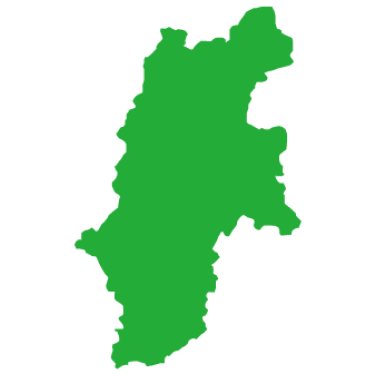
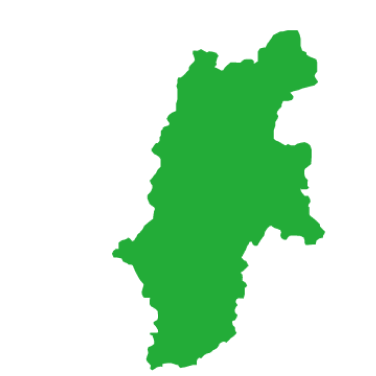
Add files via upload

Changed region(s): [[0.1755, 0.0, 0.8777, 0.9947]]

diff --git a/data_manzai.js b/data_manzai.js
@@ -269,6 +269,84 @@ const manzaiData = {
 
     },
 
+    // -------- 長野 --------------------------------------------------------------------------------------------------------
+    'nagano': {
+        scenario: [
+            { type: 'dialogue', speaker: '長野', text: 'こんにちは<br>長野県です' },
+            { type: 'dialogue', speaker: '山形', text: '山形県で〜す' },
+            { type: 'dialogue', speaker: '山形', text: '今日は県の形だけでも<br>覚えて帰ってくださ〜い' },
+            { type: 'dialogue', speaker: '長野', text: '長野といえば、やっぱり「山」だね<br>日本アルプスの雄大な自然が自慢だよ' },
+            { type: 'dialogue', speaker: '長野', text: '空気が美味しくて<br>深呼吸すると気持ちいいんだ' },
+            { type: 'dialogue', speaker: '山形', text: '空気なら山形も負けてないよ' },
+            { type: 'dialogue', speaker: '山形', text: 'あまりに空気が綺麗だから<br>「空気神社」を作って祀ってるんだ' },
+            { type: 'dialogue', speaker: '長野', text: 'えっ？ 空気神社？<br>学問の神様とかじゃなくて？' },
+            { type: 'dialogue', speaker: '山形', text: 'ううん、空気そのものが御神体だよ' },
+            {
+                type: 'prompt', speaker: '山形', text: '本殿もなくて、<br>鏡に映る空気を拝むんだ',
+                tsukkomi: [
+                    { text: "哲学的すぎるよ！", 
+                        point: 3, type: ['t', 'p', 'v'], 
+                        reaction: '長野「教育県でも<br>理解が追いつかないよ！」' },
+                    { text: "賽銭は<br>どうするの？", 
+                        point: 1, type: ['v'], 
+                        reaction: '山形「普通の賽銭箱があるよ<br>そこは現金だよ」' },
+                    { text: "長野にも<br>作ろうかな", 
+                        point: 0, type: ['p'], 
+                        reaction: '長野「いや、真面目な県民が<br>混乱しちゃうよ」' }
+                ]
+            },
+            { type: 'dialogue', speaker: '長野', text: '空気を祀るなんて、独創的だなぁ...' },
+            { type: 'dialogue', speaker: '長野', text: 'あと長野は海がないけど、<br>そのぶん川の水が綺麗なんだ' },
+            { type: 'dialogue', speaker: '長野', text: 'イワナとかヤマメとか<br>川魚が美味しいよ' },
+            { type: 'dialogue', speaker: '山形', text: 'お魚かぁ<br>山形は海があるから、海の生き物が豊富だよ' },
+            { type: 'dialogue', speaker: '山形', text: '加茂水族館には<br>世界一の種類の「クラゲ」がいるし' },
+            { type: 'dialogue', speaker: '長野', text: 'へぇ、世界一の展示数なんだ<br>見るだけで癒やされそうだね' },
+            { type: 'dialogue', speaker: '山形', text: 'うん、見て癒やされた後は<br>美味しくいただくんだ' },
+            {
+                type: 'prompt', speaker: '山形', text: 'クラゲラーメンとか<br>クラゲアイスにしてね',
+                tsukkomi: [
+                    { text: "なんで<br>食べちゃうの！", 
+                        point: 3, type: ['t', 'p', 'v'], 
+                        reaction: '長野「展示を見た直後に！？<br>情緒がないよ！」' },
+                    { text: "普通の魚<br>食べさせてよ！", 
+                        point: 1, type: ['v', 'p'], 
+                        reaction: '山形「コリコリして<br>ナタデココみたいで最高だよ？」' },
+                    { text: "アイスに<br>入ってるの！？", 
+                        point: 0, type: ['v'], 
+                        reaction: '長野「食感の主張が<br>激しすぎるよ...」' }
+                ]
+            },
+            { type: 'dialogue', speaker: '長野', text: 'はぁ...<br>山形の食文化は刺激的だね' },
+            { type: 'dialogue', speaker: '長野', text: '長野県民は真面目だから<br>もっとこう、質素で団結力があるのが好きかな' },
+            { type: 'dialogue', speaker: '長野', text: '県歌の「信濃の国」を<br>みんなで合唱したりね' },
+            { type: 'dialogue', speaker: '山形', text: '団結力なら、山形の「芋煮会」もすごいよ' },
+            { type: 'dialogue', speaker: '山形', text: '河原に集まって、みんなで鍋を囲むんだ' },
+            { type: 'dialogue', speaker: '長野', text: 'ああ、芋煮！<br>それなら平和でいいね' },
+            { type: 'dialogue', speaker: '山形', text: 'うん。ただ、日本一の芋煮会だと<br>3万食を作るからお玉じゃ無理なんだ' },
+            {
+                type: 'prompt', speaker: '山形', text: 'だから工事現場のショベルカーで<br>具材をかき混ぜるんだ',
+                tsukkomi: [
+                    { text: "衛生管理<br>どうなってるの！", 
+                        point: 3, type: ['t', 'p', 'v'], 
+                        reaction: '長野「工事現場じゃないか！<br>保健所は許可したの！？」' },
+                    { text: "調理器具<br>じゃないよ！", 
+                        point: 1, type: ['v', 'p'], 
+                        reaction: '山形「ちゃんと新車を買って<br>バターを塗ってるから衛生的だよ」' },
+                    { text: "真面目に<br>料理して！", 
+                        point: 0, type: ['v'], 
+                        reaction: '長野「給食のおばちゃんが<br>腰抜かすよ！」' }
+                ]
+            },
+            { type: 'dialogue', speaker: '山形', text: 'どう？<br>山形のこと、だいたいわかった？' },
+            { type: 'dialogue', speaker: '長野', text: 'う〜ん<br>とりあえず・・・' },
+            { type: 'dialogue', speaker: '長野', text: 'ツッコミどころが多いってことは<br>学習できたよ' },
+            { type: 'dialogue', speaker: '山形', text: '山形の魅力が伝わって嬉しいよ！' },
+            { type: 'dialogue', speaker: '長野', text: '・・・・・・' },
+            { type: 'dialogue', speaker: '長野', text: 'ポジティブすぎるよ！' },
+            { type: 'ending', speaker: 'both', text: 'どうも<br>ありがとうございました〜！' },
+        ]
+    },
+
     // -------- 大阪 -----------------------------------------------------------------------------------------------------
     'osaka': {
         scenario: [
@@ -456,7 +534,7 @@ const manzaiData = {
     },
     
     // -------- 沖縄 -----------------------------------------------------------------------------------------------------
-'okinawa': {
+    'okinawa': {
     scenario: [
         { type: 'dialogue', speaker: '沖縄', text: 'ハイサイ！<br>沖縄県さ〜' },
         { type: 'dialogue', speaker: '山形', text: '山形県で〜す' },
@@ -538,7 +616,7 @@ const manzaiData = {
         { type: 'dialogue', speaker: '沖縄', text: 'それでいいわけ！？' },
         { type: 'ending', speaker: 'both', text: 'どうも<br>ありがとうございました〜！' },
     ]
-},
+    },
 
 };
 

diff --git a/style.css b/style.css
@@ -649,11 +649,108 @@ background-color: #000;
 scroll-behavior: smooth;
 }
 
+/* ======== スクロールガイド（デザイン版） ======== */
+/* 矢印の下に配置するぼんやりした光 */
+.scroll-glow {
+    position: absolute;
+    top: 70px; /* 矢印より少し下に配置（位置は微調整してください） */
+    width: 150px;
+    height: 50px;
+    background: radial-gradient(ellipse at center, rgba(4, 255, 0, 0.4) 0%, transparent 70%);
+    filter: blur(10px);
+    border-radius: 50%;
+    z-index: -1; /* 文字や矢印の背面に配置 */
+    /* 矢印の鼓動に合わせて光を明滅させる */
+    animation: glow-pulse 2s infinite;
+}
+
+@keyframes glow-pulse {
+    0%, 100% {
+        transform: scale(1);
+        opacity: 0.3;
+    }
+    50% {
+        transform: scale(1.5); /* 矢印が下にくる時に光を広げる */
+        opacity: 0.7;
+    }
+}
+
+.scroll-guide {
+    position: fixed;
+    bottom: 35px;
+    left: 50%;
+    transform: translateX(-50%);
+    z-index: 1000;
+    display: flex;
+    flex-direction: column;
+    align-items: center;
+    pointer-events: none;
+    overflow: visible;
+    transition: opacity 0.5s ease-out;
+}
+
+/* 文字部分 */
+.scroll-text {
+    color: #04FF00;
+    font-family: "Zen Maru Gothic", sans-serif;
+    font-size: 12px;
+    font-weight: 900;
+    letter-spacing: 0.3em;
+    text-shadow: 0 0 10px rgba(4, 255, 0, 0.8);
+    margin-bottom: 8px;
+}
+
+/* 矢印の入れ物 */
+.arrow-wrap {
+    display: flex;
+    flex-direction: column;
+    align-items: center;
+    gap: 4px; /* 矢印と矢印の間隔 */
+}
+
+/* V字のライン */
+.arrow-v {
+    width: 15px;
+    height: 15px;
+    border-right: 3px solid #04FF00;
+    border-bottom: 3px solid #04FF00;
+    transform: rotate(45deg); /* 傾けてV字にする */
+    box-shadow: 2px 2px 10px rgba(4, 255, 0, 0.5);
+    
+    /* 下に流れるようなアニメーション */
+    animation: scroll-arrow-move 2s infinite;
+    opacity: 0;
+}
+
+/* 2つ目の矢印を少し遅らせる */
+.arrow-v:nth-child(2) {
+    animation-delay: 0.3s;
+}
+
+@keyframes scroll-arrow-move {
+    0% {
+        transform: rotate(45deg) translate(-5px, -5px);
+        opacity: 0;
+    }
+    50% {
+        opacity: 1;
+    }
+    100% {
+        transform: rotate(45deg) translate(5px, 5px);
+        opacity: 0;
+    }
+}
+
+/* スクロール時の非表示用 */
+.scroll-guide.fade-out {
+    opacity: 0;
+}
+
 /* ストーリーエリア全体 */
 .story-area {
 position: relative;
 z-index: 10;
-padding-top: 45dvh;
+padding-top: 23dvh;
 padding-right: 20px;
 padding-left: 20px;
 padding-bottom: 50px;

diff --git a/script_index.js b/script_index.js
@@ -116,3 +116,22 @@ document.addEventListener('DOMContentLoaded', () => {
         logoObserver.observe(logo);
     }
 });
+
+/* ======== スクロールガイドの表示制御 ======== */
+// 1. スクロールする入れ物（index-scroll-container）を取得
+const scrollContainer = document.querySelector('.index-scroll-container');
+// 2. ガイド本体を取得
+const scrollGuide = document.getElementById('scroll-guide');
+
+if (scrollContainer && scrollGuide) {
+    scrollContainer.addEventListener('scroll', () => {
+        // 20px（ほんの少し）でもスクロールされたら
+        if (scrollContainer.scrollTop > 20) {
+            // CSSで用意した .fade-out クラス（opacity: 0）を付与
+            scrollGuide.classList.add('fade-out');
+        } else {
+            // 一番上に戻ったら再表示
+            scrollGuide.classList.remove('fade-out');
+        }
+    });
+}

diff --git a/index.html b/index.html
@@ -12,6 +12,15 @@
     <div class="game-wrapper">
         <div class="index-scroll-container">
 
+            <div class="scroll-guide" id="scroll-guide">
+    <span class="scroll-text">SCROLL</span>
+    <div class="arrow-wrap">
+        <div class="arrow-v"></div>
+        <div class="arrow-v"></div>
+    </div>
+    <div class="scroll-glow"></div>
+</div>
+
             <div class="story-area">
                 <div class="story-section">
                     47都道府県。<br>
